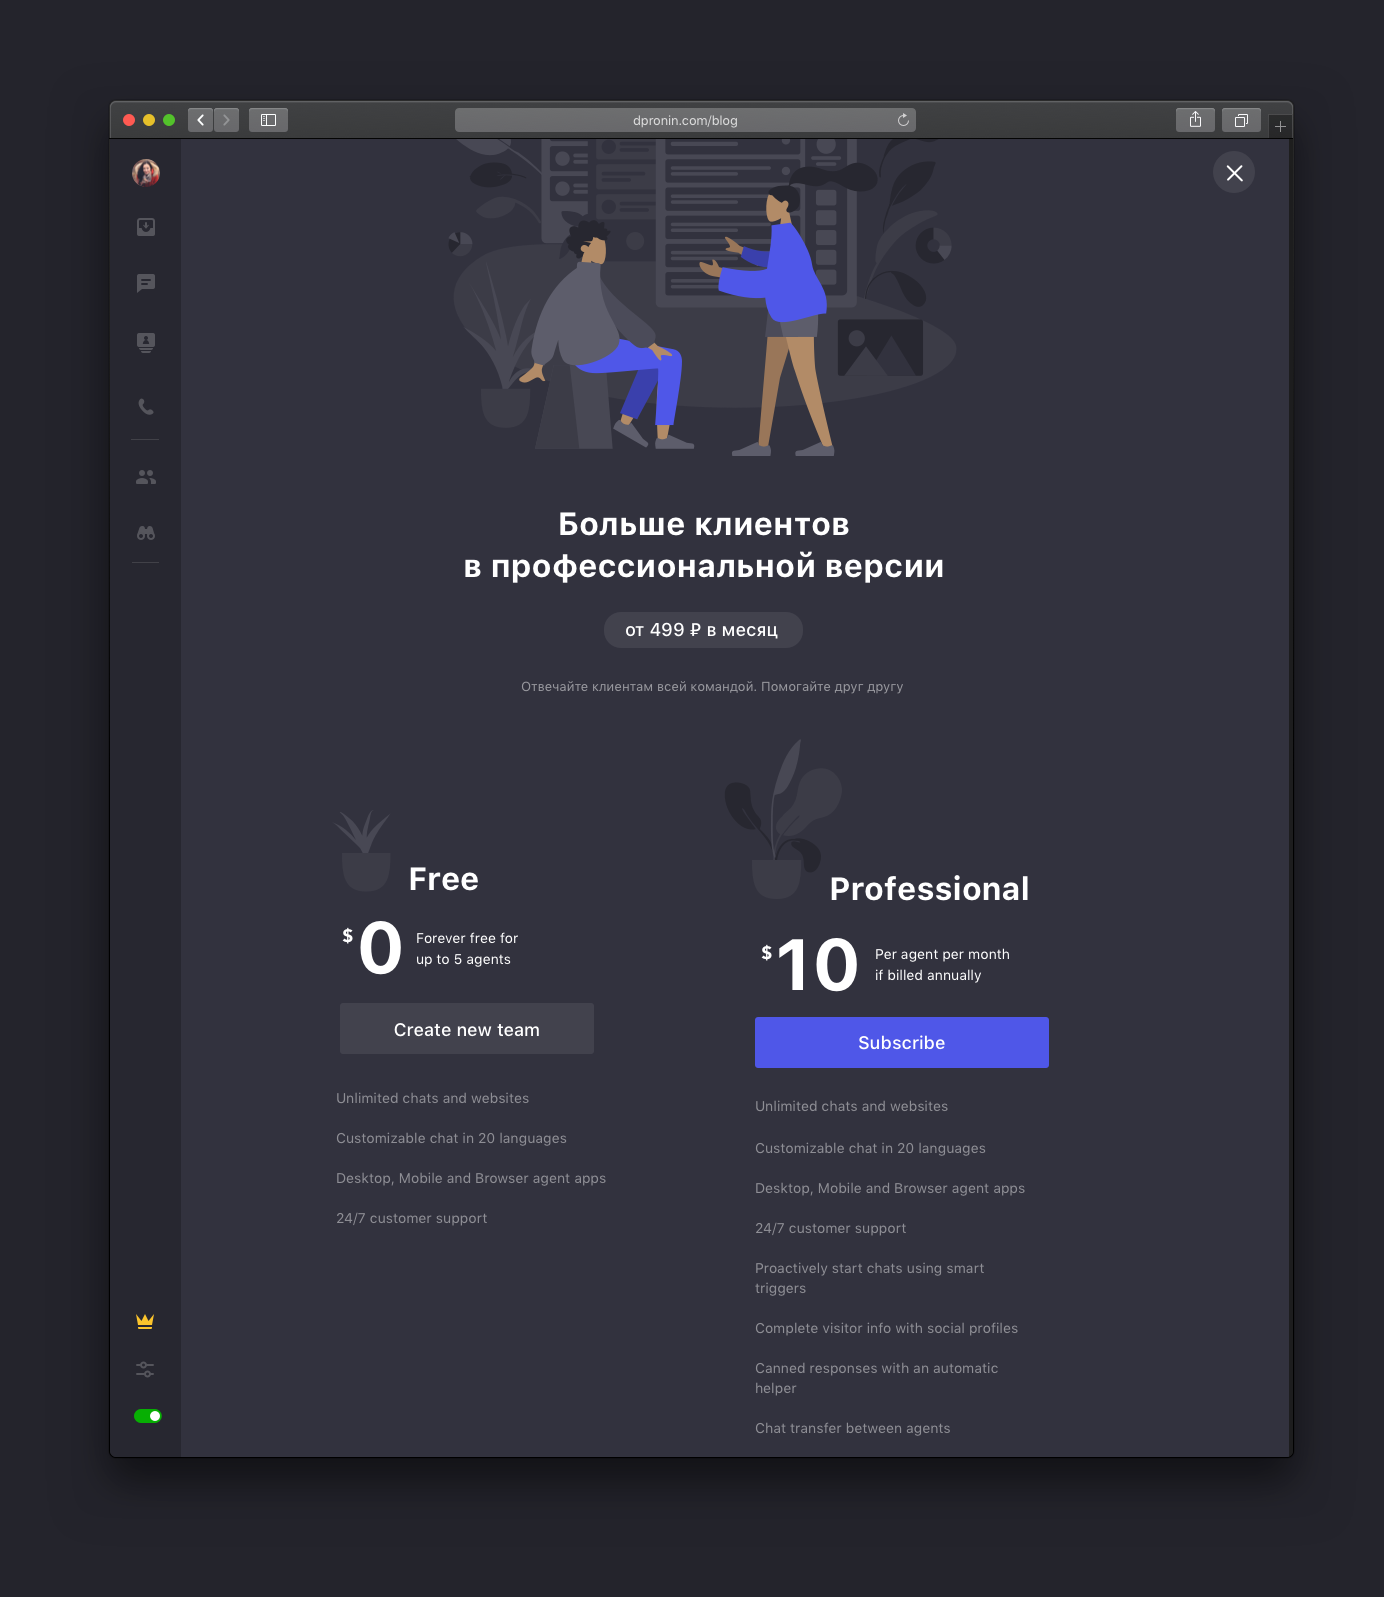
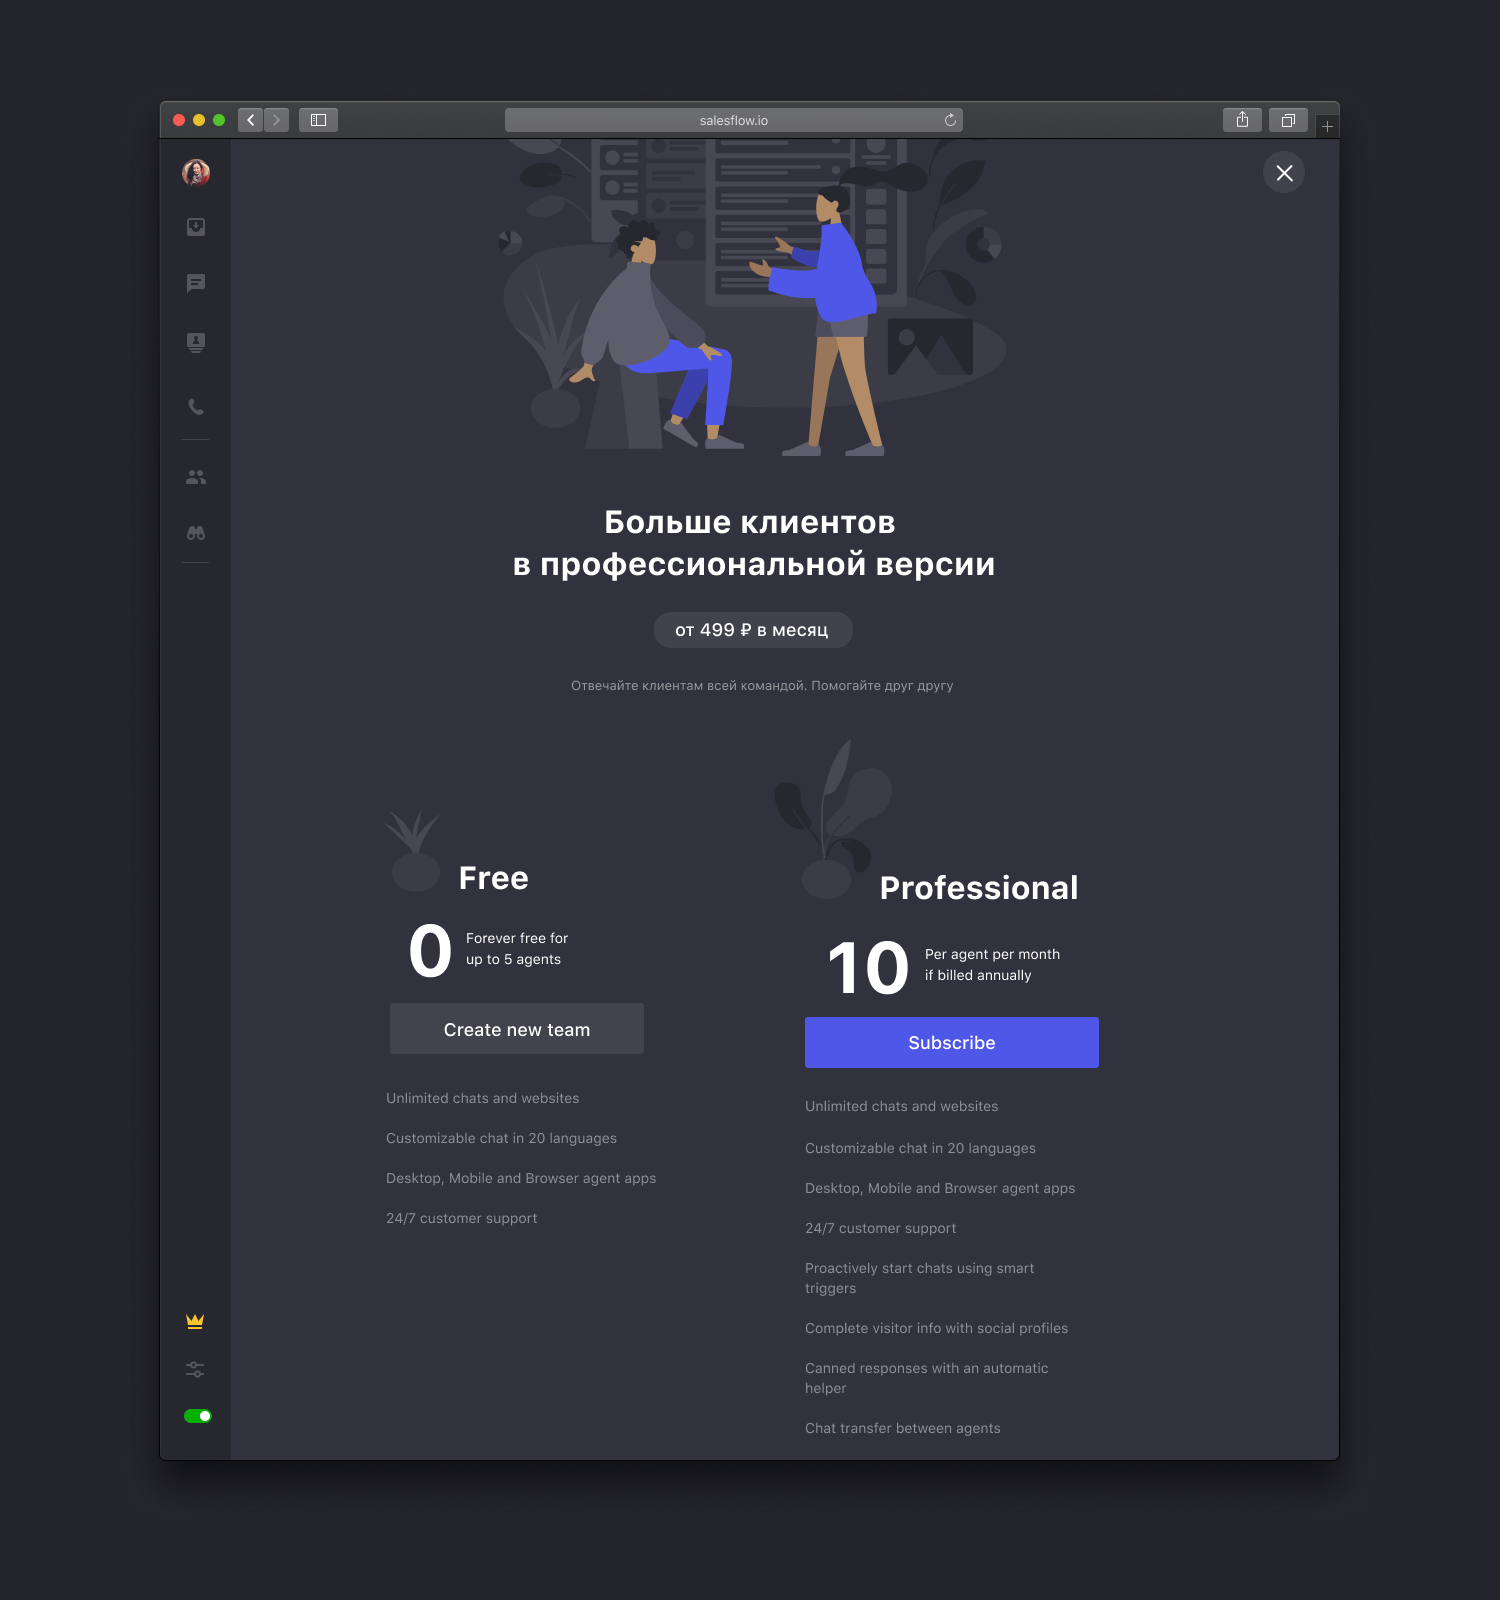
Добавлены афро

diff --git a/index.html b/index.html
@@ -112,7 +112,7 @@
                         <p>Онлайн-платформы со статистикой, аналитикой.&nbsp;Дизайн отображения данных, построение дизайн-систем для разработчиков, Data Driven design, проверка на пользователях.</p>
                     </figcaption>
                     <div class="my-work__figure-img-wrapper">
-                        <img class="my-work__figure-img" srcset="img/watchlist.png 1x, img/watchlist@2x.png 2x, img/watchlist@3x.png 3x" src="img/watchlist.png" alt="Screen desktop messenger dpronin">
+                        <img class="my-work__figure-img" srcset="img/watchlist2.png 1x, img/watchlist2@2x.png 2x, img/watchlis2t@3x.png 3x" src="img/watchlist2.png" alt="Screen desktop messenger dpronin">
                     </div>
 
                 </figure>
